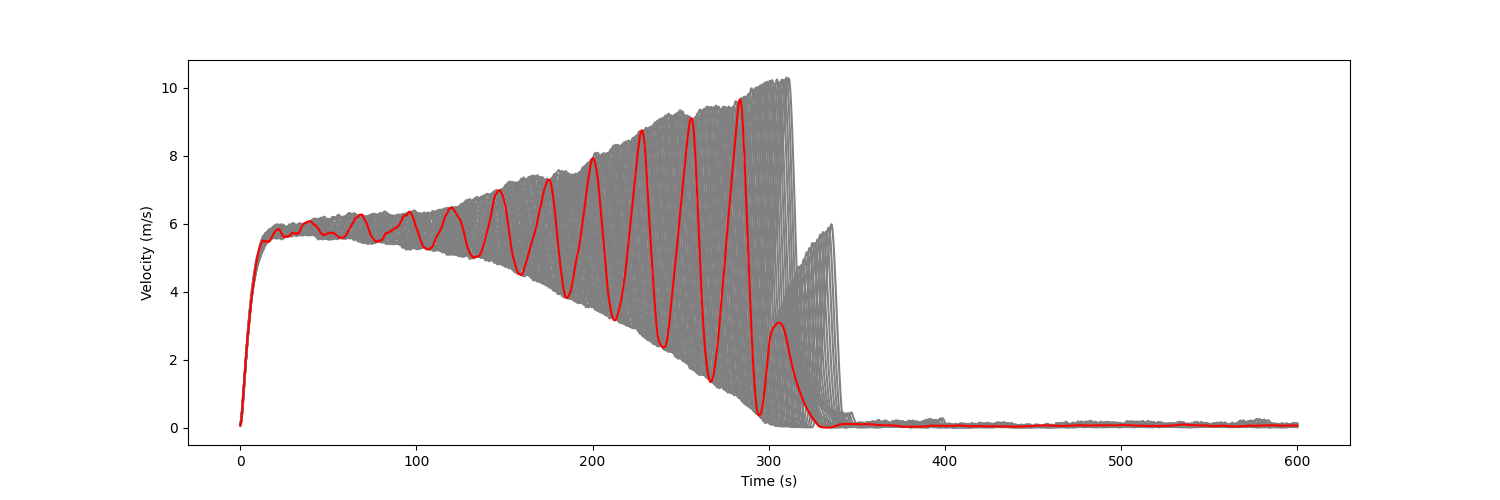
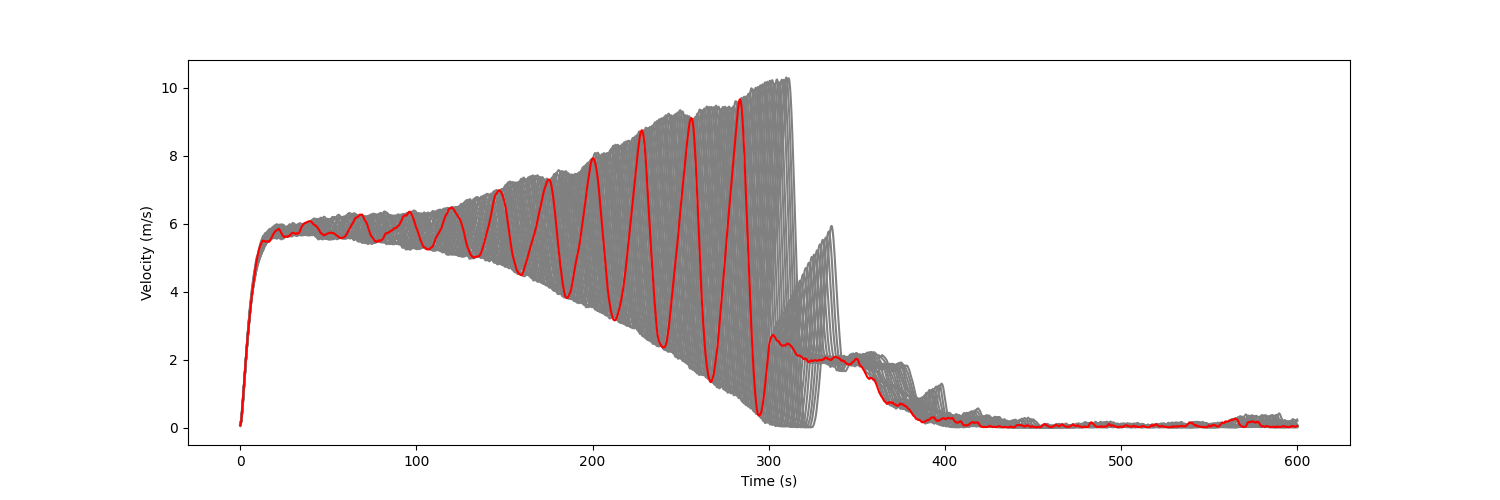
reward change

Changed region(s): [[0.4907, 0.45, 0.8893, 0.87]]

diff --git a/main.py b/main.py
@@ -17,7 +17,7 @@ def main():
         scripts.train_dqn.evaluate("/home/vamsi/Documents/GitHub/RingRoad-RL/Models/DQN/DQNTrainer_2022-03-03_19-28-07/DQNTrainer_ringroad-v1_f4621_00000_0_2022-03-03_19-28-08/checkpoint_000488/checkpoint-488")
 
     elif args.type == "eval_ppo":
-        scripts.train_ppo.evaluate("/home/vamsi/Documents/GitHub/RingRoad-RL/Models/PPO/SingleAgent/LSTM/PPOTrainer_2022-04-30_08-52-16/PPOTrainer_ringroad-v1_bc7f5_00000_0_2022-04-30_08-52-16/checkpoint_000250/checkpoint-250")
+        scripts.train_ppo.evaluate("/home/vamsi/Documents/GitHub/RingRoad-RL/Models/PPO/SingleAgent/LSTM/PPOTrainer_2022-05-02_17-13-40/PPOTrainer_ringroad-v1_1c66a_00000_0_2022-05-02_17-13-40/checkpoint_000250/checkpoint-250")
 
     elif args.type == "eval_idm":
         scripts.evaluate_idm.evaluate()

diff --git a/Ring_Road/envs/ringroad.py b/Ring_Road/envs/ringroad.py
@@ -122,7 +122,7 @@ class RingRoad(gym.Env):
 
         # reward average velocity
         eta_2 = 4.
-        reward = self.state_extractor.get_average_vel() / 5
+        reward = self.state_extractor.get_average_vel()
         # punish accelerations (should lead to reduced stop-and-go waves)
         eta = 0.25  # 0.25
         mean_actions = eta * np.mean(np.abs(action))
